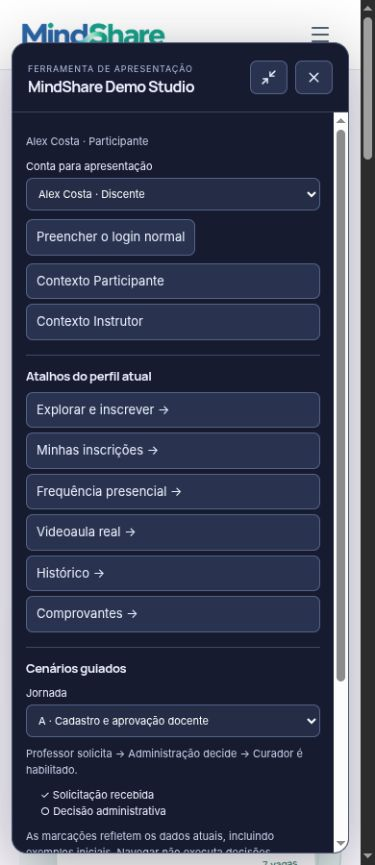
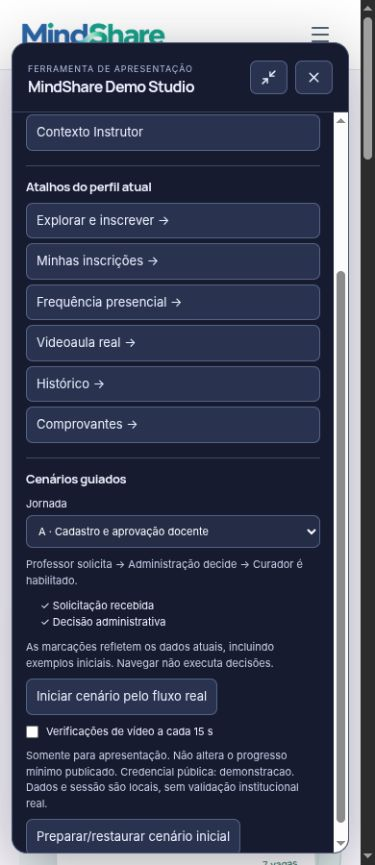
docs: finalize public release audit and academic presentation guide

diff --git a/docs/requirements-matrix.md b/docs/requirements-matrix.md
@@ -2,26 +2,26 @@
 
 Fonte normativa: SRS v1.3 completo (`MindShare_SRS_v1.3.md` e PDF). Os documentos v1.1 e v1.2 são históricos. A especificação descreve o sistema pretendido; a tabela abaixo descreve o que o frontend demonstra. Etapas 1–5 foram preservadas e integradas à evolução final.
 
-| Requisitos                               | Implementação atual                                                                                                                                                         | Testes/evidência                                                                                         | Limites                                                                                                                     |
-| ---------------------------------------- | --------------------------------------------------------------------------------------------------------------------------------------------------------------------------- | -------------------------------------------------------------------------------------------------------- | --------------------------------------------------------------------------------------------------------------------------- |
-| RF01, RF02, RF03                         | Cadastro discente demonstrativo; login normal, contextos da mesma identidade; guardas para Discente, Curador ativo e Administrador.                                         | `auth.test.ts`, `evolution.test.ts`; jornada de perfis na interface.                                     | Somente contas fictícias `.test`; cadastro discente não cria identidade institucional real. Sem autenticação no servidor.   |
-| RF04, RF05, RF10                         | Formulário único cria Rascunho, exige campos condicionais e Curador; submissão Em análise; edição somente Ajustes solicitados; reenvio mantém ID e professor.               | `instructor.test.ts`, `curation.test.ts`, `evolution.test.ts`; ciclo de Sofia/Alex.                      | Categorias/áreas são exemplificativas; dados legados identificados.                                                         |
-| RF06, RF07, RF08, RF09, RF11             | Dashboard, fila, detalhes e histórico individuais; aprovação publica; rejeição e ajustes exigem motivo; autoria/data preservadas.                                           | `curation.test.ts`, isolamento/transferência em `evolution.test.ts`; bloqueio de URL de outro professor. | Autorização é demonstrativa; não protege contra manipulação do próprio navegador.                                           |
-| RF12, RF13, RF14, RF15, RF16, RF17       | Busca, interseção de filtros, três modalidades, vagas derivadas e recomendação por área/limite de horas.                                                                    | `catalog.test.ts`, `participant.test.ts`; publicação da proposta criada na jornada.                      | Sem recomendação por IA ou classificação institucional oficial.                                                             |
-| RF18, RF19                               | Inscrição idempotente, limite de vagas, isolamento de usuário, status e acompanhamento.                                                                                     | `participant.test.ts`, jornadas de frequência e vídeo.                                                   | Sem sincronização concorrente entre dispositivos/abas.                                                                      |
-| RF20, RF21, RF22, RF23, RF38             | Serviço único verifica elegibilidade, confirma uma vez, registra data, atualiza horas e gera PDF com aviso obrigatório.                                                     | `instructor.test.ts`, `certificates.test.ts`, jornada completa com PDF em `validation/final`.            | PDF demonstrativo, sem assinatura oficial; emissão não garante reconhecimento de horas pela UFC.                            |
-| RF24, RF25, RF26                         | Cadastro docente separado, solicitação pendente ou consulta institucional explicitamente simulada; Administração decide; aprovação cria Curador ativo.                      | `evolution.test.ts`; Sofia cadastrada/aprovada pela interface.                                           | Não consulta UFC, SIAPE ou gov.br. Representação fictícia de documento, sem upload de arquivo pessoal.                      |
-| RF27, RF28, RF34, RF35                   | Modalidades condicionais, local/link/vídeos, mínimo e organização visíveis a Curador e antes da inscrição; link síncrono apenas na área inscrita.                           | `evolution.test.ts`; formulários e detalhes.                                                             | URLs/dados existem no bundle/localStorage; proteção real de mídia/link requer servidor.                                     |
-| RF29, RF30, RF36, RF42                   | Planejamento de encontros, operação pelo dono, presença/ausência/não registrado, cálculo parcial e encerramento.                                                            | `evolution.test.ts`; lançamento/consulta real na jornada.                                                | Presença é lançada pelo Instrutor; nenhuma API de videoconferência.                                                         |
-| RF31, RF32, RF33, RF37, RF43, RF44       | HTML5 video local real; união de intervalos; pausa, busca, aba oculta, erro e confirmação suspendem validação; checkpoints e posição persistem; relatórios e elegibilidade. | `evolution.test.ts`, mídia MP4 decodificada integralmente, reprodução e confirmação reais na interface.  | Indicadores de interação não comprovam atenção/aprendizagem; cliente pode ser manipulado.                                   |
-| RF39, RF40, RF41                         | Curador ativo obrigatório; comandos e telas verificam atribuição; Administração transfere pendências com motivo/autoria/data e sem mérito acadêmico.                        | `evolution.test.ts`; bloqueio de Marcos em proposta de Sofia e transferência administrativa.             | Sem gestão institucional de identidade real.                                                                                |
-| RNF01, RNF02                             | Layouts adaptativos; execução no navegador disponível; mesmas seis larguras de referência.                                                                                  | Evidências efetivamente executadas em `validation.md`.                                                   | Matriz com duas versões de Chrome/Firefox/Edge/Safari não realizada integralmente.                                          |
-| RNF03, RNF04, RNF05, RNF12               | Fluxos locais operáveis e geração PDF no navegador.                                                                                                                         | Suíte e observação local.                                                                                | Não demonstram estudo com cinco discentes, carga concorrente ou disponibilidade mensal.                                     |
-| RNF06, RNF10, RNF11                      | Sem persistência de senha; bloqueio demonstrativo após cinco erros; caminhos estáticos.                                                                                     | `auth.test.ts`, inspeção do payload.                                                                     | Sem hash/salt, proteção contra ataques ou servidor HTTPS verificado; dependem de serviço real.                              |
-| RNF07                                    | Histórico/conclusões sobrevivem à recarga e migração; legado preservado.                                                                                                    | Testes de round-trip, migração e PDF.                                                                    | localStorage não assegura retenção por cinco anos.                                                                          |
-| RNF08, RNF20                             | Labels, foco, IDs únicos, diálogos nativos, teclado, controles HTML5, descrição de mídia sem fala e prazo ajustável.                                                        | Verificações de interface/teclado e responsividade.                                                      | Não é certificação integral WCAG 2.1 AA; auditoria completa e tecnologias assistivas continuam sendo atividades de revisão. |
-| RNF09, RNF13, RNF14, RNF15, RNF17, RNF19 | Avisos proporcionais, documentos exclusivamente fictícios, acesso por finalidade, sem câmera/microfone/biometria/gravação de tela.                                          | Domínio, testes de perfil e interface docente/player.                                                    | Não se presume conformidade LGPD por checkbox. Gestão jurídica, retenção, direitos e autorização real dependem do serviço.  |
-| RNF16, RNF18                             | Estado v3 persiste progresso/frequência; erro/quota comunicados; restauração confirmada remove dados da demonstração.                                                       | `evolution.test.ts`, persistência após recarga.                                                          | Política institucional e descarte automático por prazo não são implementados por um frontend estático.                      |
-| RNF21, RNF22                             | Erro de mídia com nova tentativa; progresso preservado; vídeo e poster locais via BASE_URL; licença/atribuição acessíveis.                                                  | Decodificação completa, build no subdiretório e reprodução real.                                         | Sem promessa de streaming/CDN ou desempenho em todas as redes.                                                              |
+| Requisitos                               | Implementação atual                                                                                                                                                         | Testes/evidência                                                                                         | Limites                                                                                                                                        |
+| ---------------------------------------- | --------------------------------------------------------------------------------------------------------------------------------------------------------------------------- | -------------------------------------------------------------------------------------------------------- | ---------------------------------------------------------------------------------------------------------------------------------------------- |
+| RF01, RF02, RF03                         | Cadastro discente demonstrativo; login normal, contextos da mesma identidade; guardas para Discente, Curador ativo e Administrador.                                         | `auth.test.ts`, `evolution.test.ts`; jornada de perfis na interface.                                     | Somente contas fictícias `.test`; cadastro discente não cria identidade institucional real. Sem autenticação no servidor.                      |
+| RF04, RF05, RF10                         | Formulário único cria Rascunho, exige campos condicionais e Curador; submissão Em análise; edição somente Ajustes solicitados; reenvio mantém ID e professor.               | `instructor.test.ts`, `curation.test.ts`, `evolution.test.ts`; ciclo de Sofia/Alex.                      | Categorias/áreas são exemplificativas; dados legados identificados.                                                                            |
+| RF06, RF07, RF08, RF09, RF11             | Dashboard, fila, detalhes e histórico individuais; aprovação publica; rejeição e ajustes exigem motivo; autoria/data preservadas.                                           | `curation.test.ts`, isolamento/transferência em `evolution.test.ts`; bloqueio de URL de outro professor. | Autorização é demonstrativa; não protege contra manipulação do próprio navegador.                                                              |
+| RF12, RF13, RF14, RF15, RF16, RF17       | Busca, interseção de filtros, três modalidades, vagas derivadas e recomendação por área/limite de horas.                                                                    | `catalog.test.ts`, `participant.test.ts`; publicação da proposta criada na jornada.                      | Sem recomendação por IA ou classificação institucional oficial.                                                                                |
+| RF18, RF19                               | Inscrição idempotente, limite de vagas, isolamento de usuário, status e acompanhamento.                                                                                     | `participant.test.ts`, jornadas de frequência e vídeo.                                                   | Sem sincronização concorrente entre dispositivos/abas.                                                                                         |
+| RF20, RF21, RF22, RF23, RF38             | Serviço único verifica elegibilidade, confirma uma vez, registra data, atualiza horas e gera PDF com aviso obrigatório.                                                     | `instructor.test.ts`, `certificates.test.ts`, jornada completa com PDF em `validation/final`.            | PDF demonstrativo, sem assinatura oficial; emissão não garante reconhecimento de horas pela UFC.                                               |
+| RF24, RF25, RF26                         | Cadastro docente separado, solicitação pendente ou consulta institucional explicitamente simulada; Administração decide; aprovação cria Curador ativo.                      | `evolution.test.ts`; Sofia cadastrada/aprovada pela interface.                                           | Não consulta UFC, SIAPE ou gov.br. Representação fictícia de documento, sem upload de arquivo pessoal.                                         |
+| RF27, RF28, RF34, RF35                   | Modalidades condicionais, local/link/vídeos, mínimo e organização visíveis a Curador e antes da inscrição; link síncrono apenas na área inscrita.                           | `evolution.test.ts`; formulários e detalhes.                                                             | URLs/dados existem no bundle/localStorage; proteção real de mídia/link requer servidor.                                                        |
+| RF29, RF30, RF36, RF42                   | Planejamento de encontros, operação pelo dono, presença/ausência/não registrado, cálculo parcial e encerramento.                                                            | `evolution.test.ts`; lançamento/consulta real na jornada.                                                | Presença é lançada pelo Instrutor; nenhuma API de videoconferência.                                                                            |
+| RF31, RF32, RF33, RF37, RF43, RF44       | HTML5 video local real; união de intervalos; pausa, busca, aba oculta, erro e confirmação suspendem validação; checkpoints e posição persistem; relatórios e elegibilidade. | `evolution.test.ts`, mídia MP4 decodificada integralmente, reprodução e confirmação reais na interface.  | Indicadores de interação não comprovam atenção/aprendizagem; cliente pode ser manipulado.                                                      |
+| RF39, RF40, RF41                         | Curador ativo obrigatório; comandos e telas verificam atribuição; Administração transfere pendências com motivo/autoria/data e sem mérito acadêmico.                        | `evolution.test.ts`; bloqueio de Marcos em proposta de Sofia e transferência administrativa.             | Sem gestão institucional de identidade real.                                                                                                   |
+| RNF01, RNF02                             | Layouts adaptativos; execução no navegador disponível; mesmas seis larguras de referência.                                                                                  | Evidências efetivamente executadas em `validation.md`.                                                   | Matriz com duas versões de Chrome/Firefox/Edge/Safari não realizada integralmente.                                                             |
+| RNF03, RNF04, RNF05, RNF12               | Fluxos locais operáveis e geração PDF no navegador.                                                                                                                         | Suíte e observação local.                                                                                | Não demonstram estudo com cinco discentes, carga concorrente ou disponibilidade mensal.                                                        |
+| RNF06, RNF10, RNF11                      | Sem persistência de senha; bloqueio demonstrativo após cinco erros; caminhos estáticos.                                                                                     | `auth.test.ts`, inspeção do payload.                                                                     | HTTPS da hospedagem estática verificado no Pages. Sem hash/salt, proteção de servidor ou autenticação institucional; dependem de serviço real. |
+| RNF07                                    | Histórico/conclusões sobrevivem à recarga e migração; legado preservado.                                                                                                    | Testes de round-trip, migração e PDF.                                                                    | localStorage não assegura retenção por cinco anos.                                                                                             |
+| RNF08, RNF20                             | Labels, foco, IDs únicos, diálogos nativos, teclado, controles HTML5, descrição de mídia sem fala e prazo ajustável.                                                        | Verificações de interface/teclado e responsividade.                                                      | Não é certificação integral WCAG 2.1 AA; auditoria completa e tecnologias assistivas continuam sendo atividades de revisão.                    |
+| RNF09, RNF13, RNF14, RNF15, RNF17, RNF19 | Avisos proporcionais, documentos exclusivamente fictícios, acesso por finalidade, sem câmera/microfone/biometria/gravação de tela.                                          | Domínio, testes de perfil e interface docente/player.                                                    | Não se presume conformidade LGPD por checkbox. Gestão jurídica, retenção, direitos e autorização real dependem do serviço.                     |
+| RNF16, RNF18                             | Estado v3 persiste progresso/frequência; erro/quota comunicados; restauração confirmada remove dados da demonstração.                                                       | `evolution.test.ts`, persistência após recarga.                                                          | Política institucional e descarte automático por prazo não são implementados por um frontend estático.                                         |
+| RNF21, RNF22                             | Erro de mídia com nova tentativa; progresso preservado; vídeo e poster locais via BASE_URL; licença/atribuição acessíveis.                                                  | Decodificação completa, build no subdiretório e reprodução real.                                         | Sem promessa de streaming/CDN ou desempenho em todas as redes.                                                                                 |
 
 Demo Studio é ferramenta auxiliar, documentada em `demo-studio.md`, sem IDs RF acadêmicos artificiais. Tem regras e testes próprios de ativação, preenchimento seguro, perfis e restauração. Todas as verificações e limitações devem ser lidas junto de `validation.md`.

diff --git a/docs/validation.md b/docs/validation.md
@@ -242,3 +242,17 @@ Studio ausente na URL normal e presente somente com `?demo=1` antes do hash. Sel
 Teste em navegador integrado; não constitui matriz de Chrome/Firefox/Edge/Safari, auditoria WCAG integral, ensaio de carga, teste simultâneo com cinco discentes ou verificação de retenção por cinco anos. Identidade, vínculo docente, decisões e documentos são demonstrativos. Armazenamento local e guards de interface não substituem backend, autenticação e autorização de servidor, nem sincronizam dispositivos.
 
 Build estático com base relativa, HashRouter, mídia local e Demo Studio por query compatível com subdiretório. Vídeo carregou no preview de produção sob `/mindshare/`. Nenhum serviço local é exigido pelo aplicativo publicado; o servidor de preview serve apenas para validação. Não houve deploy. Restam revisão final do repositório, configuração da publicação no GitHub Pages, publicação e teste da URL pública.
+
+# Entrega pública — etapa 6
+
+Publicado em 06/11/2026 no repositório existente `edinaldoGit/mindshare`, sem mudança de visibilidade. Relatório vigente com URLs, execução, resultados e limites: [publicacao.md](publicacao.md). Roteiro: [apresentacao.md](apresentacao.md).
+
+Instalação limpa por lockfile, 143/143 testes, lint, typecheck e build aprovados localmente e no primeiro workflow público. Auditoria npm retornou zero vulnerabilidades conhecidas. Revisão pré-publicação não encontrou segredos nos arquivos; nenhum documento docente real ou senha institucional foi incluído.
+
+Os fluxos públicos efetivamente operados incluem cadastro/aprovação docente, login dos quatro papéis, criação/submissão/aprovação de proposta atribuída, bloqueio de outro Curador, inscrição, frequência/encerramento/conclusão, reprodução integral do MP4 público, confirmação expirada com pausa e retomada, persistência e download real de PDF. Júlia atingiu 99,6% de progresso validado no Pages; Alex começou com progresso próprio zerado. Resultados independentes das métricas locais anteriores.
+
+Foram feitas 48 verificações adicionais nas seis larguras usuais: login/cadastro locais alterados; landing e videoaula públicas; Studio aberto/minimizado e diálogos públicos de vídeo/restauração. Sem transbordamento nos resultados finais. Evidências em `validation/publication/`. As 144 verificações anteriores permanecem como histórico, sem alegação de repetição integral.
+
+Na revisão pública, o indicador do cenário docente não reconheceu a nova solicitação decidida porque acompanhava apenas a amostra inicial; o predicado foi corrigido e todas as verificações de código passaram novamente. Nenhuma funcionalidade acadêmica foi alterada.
+
+A validação continua restrita ao navegador integrado, sem matriz completa, auditoria WCAG integral, Lighthouse, teste concorrente ou serviço institucional real. Snapshot local não sincroniza dispositivos. O relatório de publicação distingue configuração, deploy bem-sucedido e verificações efetivamente operadas.

diff --git a/docs/design-system.md b/docs/design-system.md
@@ -29,7 +29,7 @@ Campos têm label associado, instruções e erro próximo, com `aria-invalid` e 
 
 ## Layouts internos e responsividade
 
-Participante mantém o layout próprio. Instrutor e Professor Curador compartilham `WorkspaceFrame`: identidade, sidebar, navegação, saída e reset confirmado no desktop; seletor nativo rotulado no mobile. Os destinos variam por perfil. A mudança de contexto do Discente mantém sua identidade; troca de persona usa o login demonstrativo.
+Participante mantém o layout próprio. Instrutor e Professor Curador compartilham `WorkspaceFrame`: identidade, sidebar, navegação e saída no desktop; seletor nativo rotulado no mobile. A restauração confirmada fica exclusivamente no Demo Studio. Os destinos variam por perfil. A mudança de contexto do Discente mantém sua identidade; troca de persona usa o login demonstrativo.
 
 Métricas derivadas do estado usam grade de quatro colunas, reduzida para duas. Listas são cartões adaptativos, sem tabelas que precisem de rolagem horizontal. O corpo principal usa `min-width: 0`, quebra de textos longos e organização vertical em telas pequenas. As amostras verificadas em 360, 390, 768, 1024, 1440 e 1920 px estão em `validation.md`.
 
@@ -41,7 +41,7 @@ Na análise, ementa e informações ocupam a coluna principal; o painel lateral 
 
 `DecisionDialog` reutiliza o estilo do diálogo compartilhado, com ícone coerente com a ação, título da proposta e consequência. Aprovação exige confirmação; rejeição/ajustes acrescentam textarea obrigatória. Rejeição usa o token destrutivo apenas na confirmação final. O diálogo tem altura máxima relativa a `100dvh`, rolagem interna e botões empilhados em smartphones. Escape/cancelamento fecha antes de desmontar e devolve foco ao acionador; sucesso foca a mensagem de resultado.
 
-A timeline é compartilhada com o Instrutor e apresenta somente eventos derivados do estado, preservando as decisões anteriores. `prefers-reduced-motion` continua respeitado pelas regras existentes do shell. As revisões feitas não constituem certificação WCAG; auditoria completa e matriz de navegadores ficam registradas para a Etapa 6.
+A timeline é compartilhada com o Instrutor e apresenta somente eventos derivados do estado, preservando as decisões anteriores. `prefers-reduced-motion` continua respeitado pelas regras existentes do shell. As revisões feitas não constituem certificação WCAG; a revisão proporcional da etapa 6 está em `publicacao.md`; auditoria integral e matriz de navegadores permanecem fora do escopo demonstrado.
 
 ## Evolução final: Administração, frequência, vídeo e Demo Studio
 

diff --git a/docs/publicacao.md b/docs/publicacao.md
@@ -53,3 +53,13 @@ Nesta etapa foram executadas **48 verificações adicionais** nas larguras 360, 
 Também foi reproduzido o vídeo com Studio ativado: Alex começou com zero progresso, separado dos 99,6% de Júlia, e a opção explícita de 15 s abriu confirmação com o vídeo pausado. A versão normal permaneceu usando o intervalo proporcional de 90 s.
 
 A revisão pública encontrou um indicador do cenário A limitado à solicitação inicial Renata. O predicado foi corrigido para reconhecer qualquer solicitação decidida. Nenhuma decisão acadêmica ou administrativa foi alterada pelo painel. Após a correção, os 143 testes, lint, typecheck e build passaram novamente. Resultado publicado da correção registrado no encerramento abaixo.
+
+## Encerramento
+
+Correção publicada no commit `2bad811b5e930914dfecb547a53f2f120b062a80`, execução [42165186022](https://github.com/edinaldoGit/mindshare/actions/runs/42165186022), build e deploy bem-sucedidos. Recarregamento público mostrou **✓ Solicitação recebida / ✓ Decisão administrativa** para a nova solicitação aprovada, preservando os dados anteriores. Os cinco cenários foram selecionados e suas orientações consultadas na interface pública; registro em `scenarios-public.json`.
+
+Restauração pública confirmada pela interface: retornaram as seis contas iniciais, Sofia desapareceu e os indicadores do cenário A voltaram ao início. Antes do reset, cancelar a confirmação havia conservado os ensaios. Verificações aceleradas desativadas. Sessão encerrada; menu móvel operado até catálogo e navegação de retorno; viewport de teste removida. Console consultado ao terminar: zero erros/avisos. Evidências preservam a jornada anterior ao reset; os dados de apresentação são próprios do navegador utilizado.
+
+Não há pendência de acesso, configuração, build ou publicação. A documentação final é enviada em commit posterior, sem alteração do aplicativo validado. Relatório, README, matriz, arquitetura, design system, Demo Studio, plano e validação foram alinhados ao estado público. SRS não foi reescrito; fonte/PDF v1.3 e versões anteriores preservados. `apresentacao.md` orienta uma apresentação de 12–15 minutos e restauração segura dos exemplos.
+
+Limitações restantes são de escopo: protótipo local sem backend/identidade institucional, auditoria completa de acessibilidade, testes privados/cross-browser e ensaios de carga não executados. Não constituem configuração pendente do Pages e não são apresentados como verificações concluídas.
